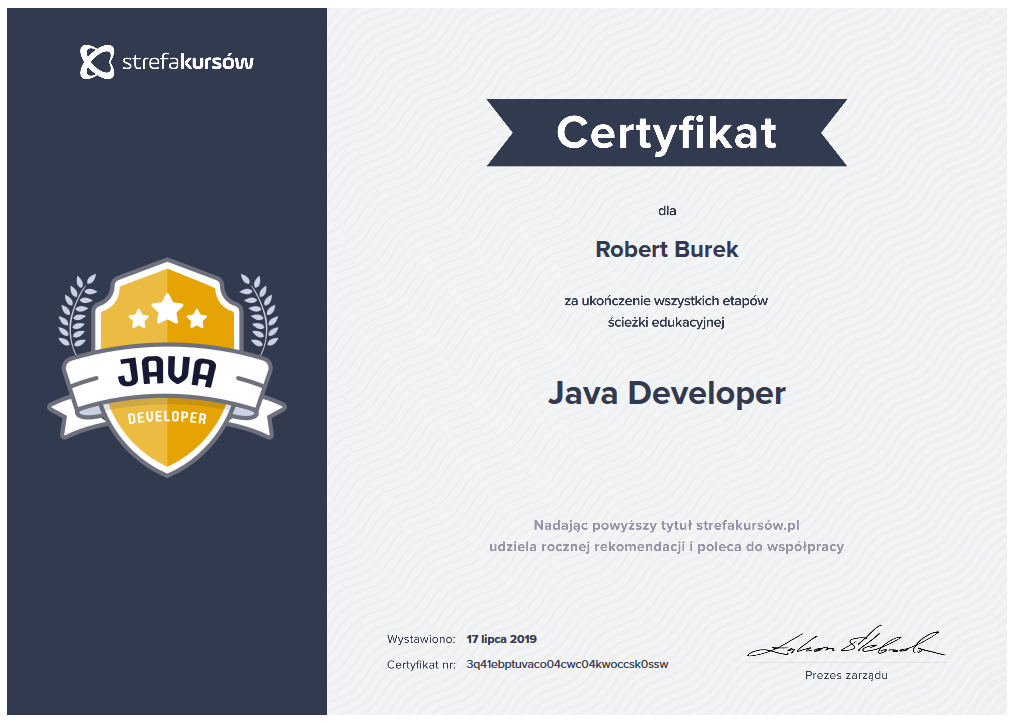
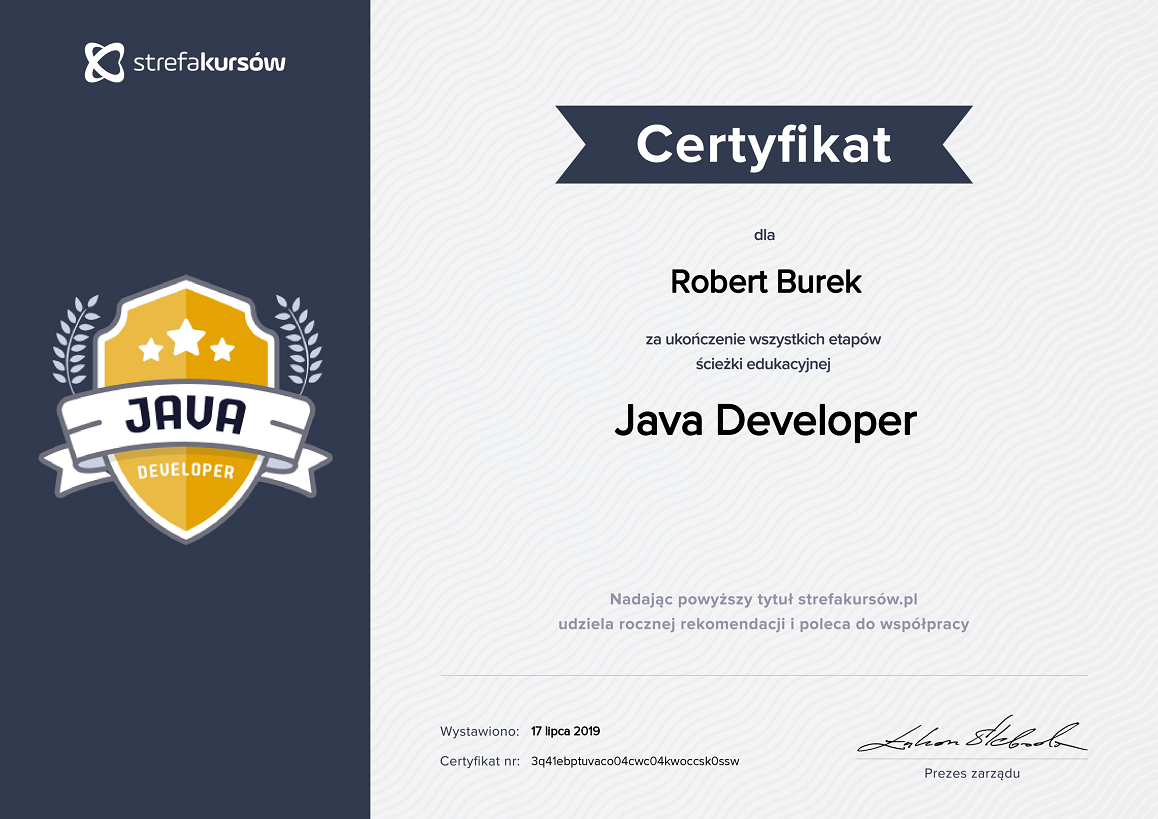
Certyfikat  Administrator baz danych

diff --git a/js/dyplomy.js b/js/dyplomy.js
@@ -2,7 +2,8 @@
 var index = 1;
 
 const dyplomy = [];
-dyplomy[31] = ['image/Dyplomy/JavaDeveloper_strefaKursow.png', 'strefaKursow']
+dyplomy[32] = ['image/Dyplomy/JavaDeveloper_strefaKursow.png', 'strefaKursow']
+dyplomy[31] = ['image/Dyplomy/AdministratorBazDanych_strefaKursow.png', 'strefaKursow']
 dyplomy[30] = ['image/Dyplomy/KursMicrosoftSQLServerOdPodstaw_strefaKursow.jpg', 'strefaKursow']
 dyplomy[29] = ['image/Dyplomy/KursMongoDBnowoczesneBazyDanych_strefaKursow.jpg', 'strefaKursow']
 dyplomy[28] = ['image/Dyplomy/KursBazyDanychMySQLodPodstaw_strefaKursow.jpg', 'strefaKursow']
